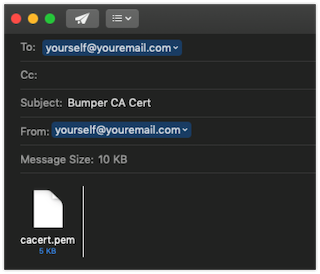
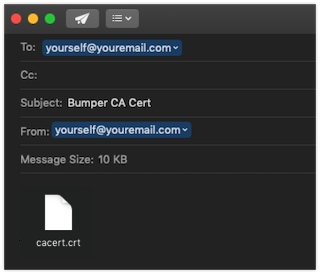
Update doc for crt
Update doc for crt

Changed region(s): [[0.0625, 0.6715, 0.2812, 0.9343]]

diff --git a/README.md b/README.md
@@ -76,7 +76,8 @@ Bumper *can* be used with the official app, but with limitations. Your phone nee
 ### DNS
 - Configure your DNS server as described above in the [DNS](#dns) section. 
 ### Import the Bumper CA Cert
-- E-mail yourself the Bumper CA cert (located at `./certs/CA/cacert.pem`)
+- E-mail yourself the Bumper CA cert (located at `./certs/CA/cacert.crt`)
+**Note:** Make sure you select the `cacert.crt` file, which is a DER encoded version that will work on either Android or iOS.
 
 ![Example of emailing CA cert](docs/images/emailcert.png)
 
